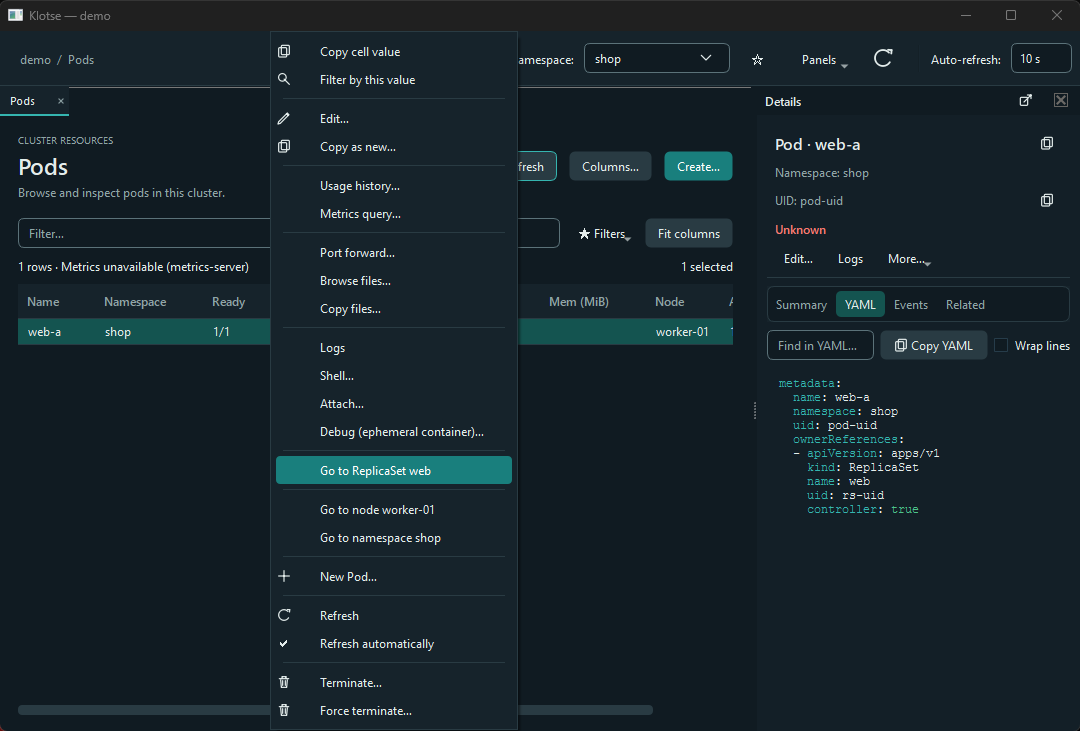
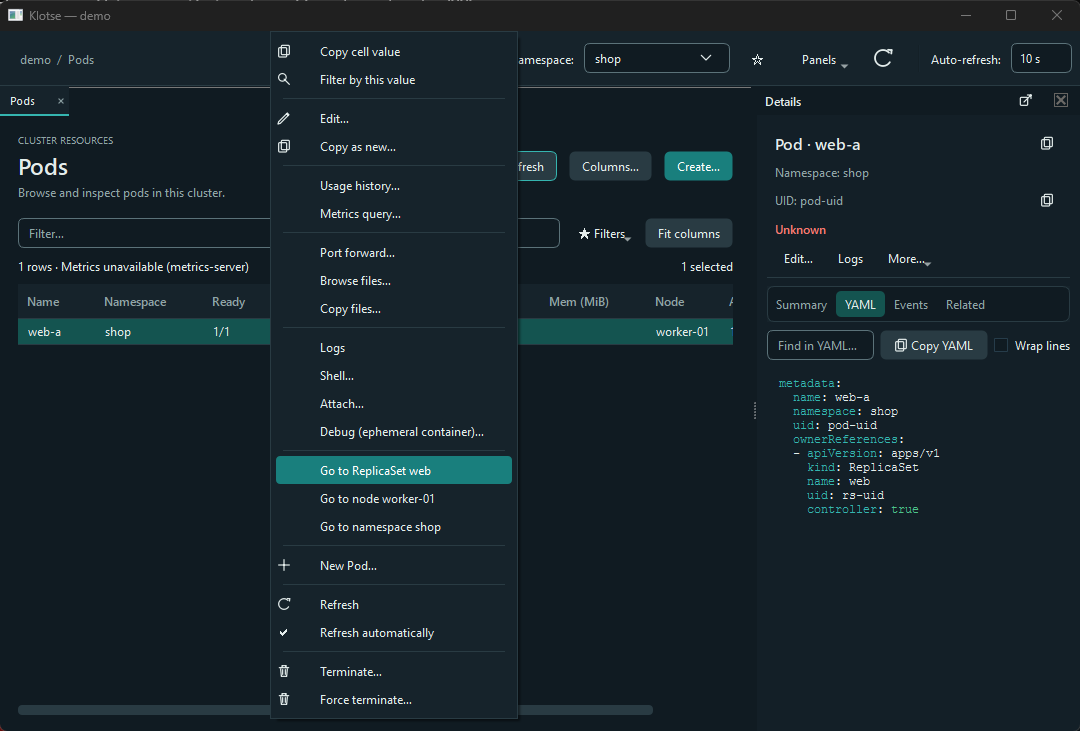
Group Go to actions in resource row menus

Changed region(s): [[0.2444, 0.6621, 0.4889, 1.0]]

diff --git a/src/klotse/ui/resource_table.py b/src/klotse/ui/resource_table.py
@@ -1144,14 +1144,16 @@ class ResourceTable(QWidget):
             add("delete", "Delete…", lambda: self.action_requested.emit("delete", row), dangerous=True, permission="delete")
         return actions
 
-    def _goto_menu(self, menu, row):
-        """'Go to node ...' for a pod that has one, 'Go to namespace ...' for any namespaced object (a Namespace's own list
-        has its Show pods entry instead). Navigation only: it never changes anything, so it is also offered read-only."""
+    def _goto_menu(self, menu, row, owner):
+        """Group navigation to the controller, node and namespace when available."""
         node = getattr(row, "node", "") if self.kind == "Pod" else ""
         namespace = getattr(row, "namespace", "") if self.kind not in ("Namespace", "Node") else ""
-        if not node and not namespace:
+        if owner is None and not node and not namespace:
             return
-        menu.addSeparator()
+        if not menu.isEmpty() and not menu.actions()[-1].isSeparator():
+            menu.addSeparator()
+        if owner is not None:
+            menu.addAction(owner.title, owner.callback)
         if node:
             menu.addAction(f"Go to node {node}", lambda: self.goto_requested.emit("node", node))
         if namespace:
@@ -1295,12 +1297,10 @@ class ResourceTable(QWidget):
                 add_shared("force-terminate", destructive)
                 if ((getattr(row, "raw", None) or {}).get("spec") or {}).get("ephemeralContainers"):
                     add_shared("remove-debug", destructive)
-            if "workload-owner" in shared or "workload-children" in shared:
+            if "workload-children" in shared:
                 section()
-                add_shared("workload-owner")
                 add_shared("workload-children")
-        if idx.isValid():
-            self._goto_menu(menu, self.model.rows[self.proxy.mapToSource(idx).row()])
+            self._goto_menu(menu, row, shared.get("workload-owner"))
         if self.kind == "CustomResourceDefinition" and idx.isValid():
             add_shared("crd-instances")
         if self.context_actions is not None:

diff --git a/tests/test_workload_navigation.py b/tests/test_workload_navigation.py
@@ -112,7 +112,7 @@ def test_menu_opens_selected_owner_and_browses_back_to_children(qtbot, monkeypat
 
         class Menu(QMenu):
             def exec(self, *_):
-                labels.extend(action.text() for action in self.actions())
+                labels.extend(None if action.isSeparator() else action.text() for action in self.actions())
                 action = next((action for action in self.actions() if action.text() == title), None)
                 if action is not None:
                     action.trigger()
@@ -121,8 +121,13 @@ def test_menu_opens_selected_owner_and_browses_back_to_children(qtbot, monkeypat
         index = table.proxy.index(0, 0)
         table._context_menu(table.view.visualRect(index).center())
         assert title in labels
+        return labels
 
-    click_menu(ws.pod_table, "Go to ReplicaSet web")
+    labels = click_menu(ws.pod_table, "Go to ReplicaSet web")
+    owner_index = labels.index("Go to ReplicaSet web")
+    assert labels[owner_index - 1:owner_index + 4] == [
+        None, "Go to ReplicaSet web", "Go to node node", "Go to namespace shop", None,
+    ]
     owner_key = ws.foreground_key()
     assert owner_key.startswith("workload-navigation:owner:")
     owner_table = ws.views[owner_key][0]

diff --git a/AGENTS.md b/AGENTS.md
@@ -73,7 +73,7 @@ git diff --check
 - Documentation changes do not authorize deployment, cloud-instance termination, pushing branches or live Kubernetes mutations.
 - Pending, not merged at the time of writing: main menu grouping (#232), actionable load states (#234), manifest filter paths (#215; described above), optional All Clusters overview implementation (#531).
 
-- #829 (workload-navigation): resource row menus and Details offer Go to the immediate workload controller and Show owned children. Workspace tabs pin the source namespace. The service matches owner references and UIDs, with a named read upward and a paginated child list downward.
+- #829 (workload-navigation): resource row menus and Details offer Go to the immediate workload controller and Show owned children. Row menus group Go to the controller, node and namespace between the same separators. Workspace tabs pin the source namespace. The service matches owner references and UIDs, with a named read upward and a paginated child list downward.
 
 - #825: `Navigator.select_view` on a collapsed cluster selects only the cluster row (`_select_quietly`: auto-scroll off, so QTreeView does not expand parents) and remembers the view in `_shown_views`; `_on_expanded` highlights it when the selected cluster is expanded. `MainWindow._on_cluster_changed` brings a collapsed cluster's Overview to the front.
 

diff --git a/ROADMAP.md b/ROADMAP.md
@@ -27,7 +27,7 @@ Separate, also not built: GCP and Azure plugins like the AWS one (see "Not built
 
 Table field actions (#203): right-click any cell to copy its value or use it as an exact column filter, including Nodes and Pods. Generated filters use readable equality for ordinary values; wildcard characters and complex quoting keep an escaped exact regex. Checked with offscreen tests; no manual display check.
 
-Workload navigation (#829) adds one-step owner and child actions in resource menus and Details for Pods, Deployments, ReplicaSets, DaemonSets, StatefulSets, Jobs and CronJobs. Results open in the same cluster and pin the namespace. Upward navigation selects the UID-verified owner, and downward navigation lists all direct children.
+Workload navigation (#829) adds one-step owner and child actions in resource menus and Details for Pods, Deployments, ReplicaSets, DaemonSets, StatefulSets, Jobs and CronJobs. Row menus group the Go to actions. Results open in the same cluster and pin the namespace. Upward navigation selects the UID-verified owner, and downward navigation lists all direct children.
 
 ## More ideas (second investigation)
 
